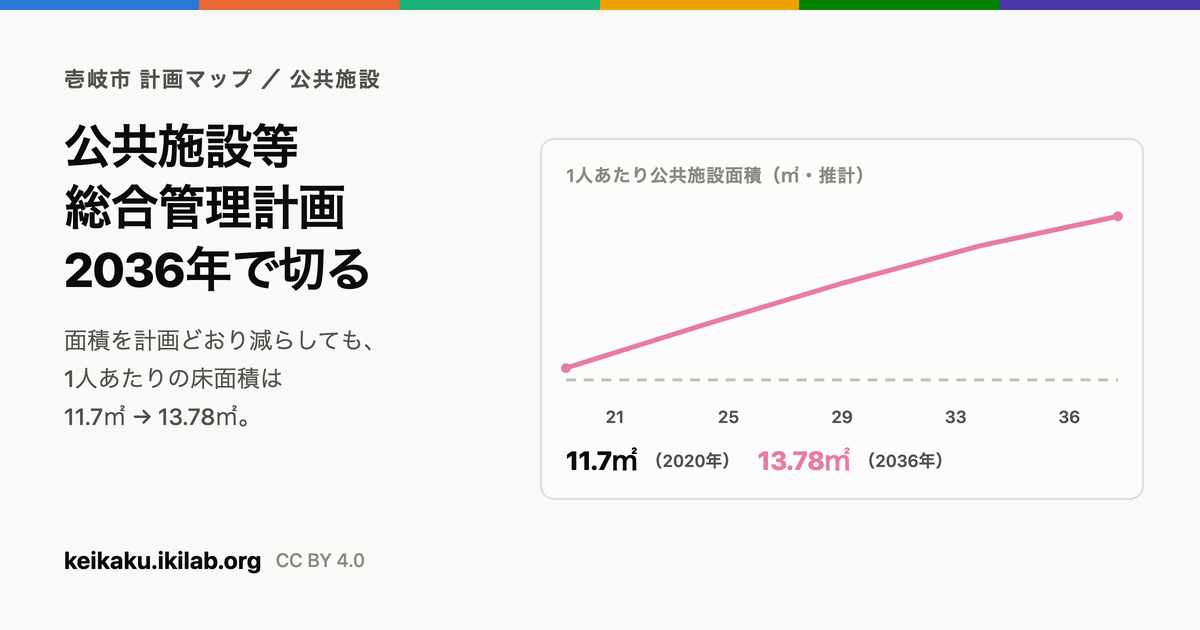
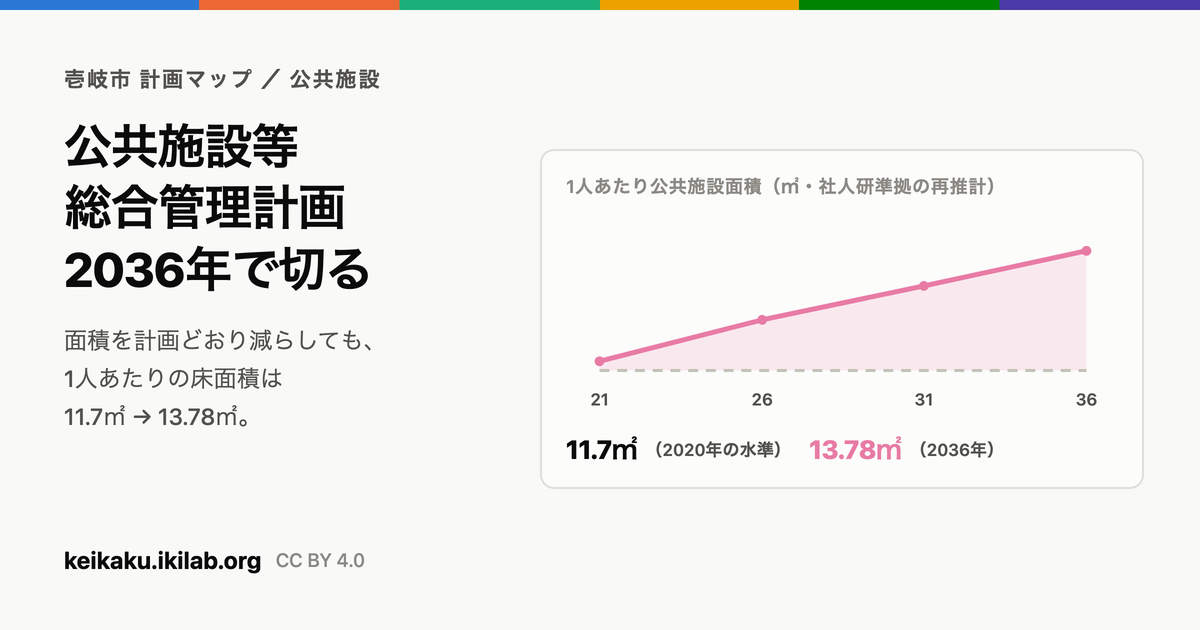
OGPカードの年の目盛りを点に揃え、各点に丸と基準線との差の塗りを入れる

diff --git a/tools/og/cards.html b/tools/og/cards.html
@@ -198,16 +198,19 @@ body{background:#555;padding:24px;display:flex;flex-direction:column;gap:24px;al
   </div>
   <div class="R">
     <div class="mini">
-      <div class="cap">1人あたり公共施設面積（㎡・推計）</div>
-      <svg class="ln" viewBox="0 0 560 200" role="img" aria-label="1人あたり公共施設面積が2020年の11.7平方メートルから2036年の13.78平方メートルへ上昇">
-        <polyline points="0,164 140,120 280,78 420,40 560,10" fill="none" stroke="var(--c5)" stroke-width="5"
+      <div class="cap">1人あたり公共施設面積（㎡・社人研準拠の再推計）</div>
+      <!-- 年の目盛りは SVG の中に置く。外の .yrs（等分セルの中央）に出すと、
+           点の位置（等間隔）とずれる。点が4つだとずれが半セル＝56px になって目立つ。 -->
+      <svg class="ln" viewBox="0 0 560 200" role="img" aria-label="1人あたり公共施設面積が2020年の水準11.7平方メートルに対し、2036年に13.78平方メートルへ上昇">
+        <path d="M34,145.9 L34,145.9 L199,103.9 L363,69.5 L528,33.9 L528,155.3 L34,155.3 Z" fill="var(--c5)" opacity=".14"/>
+        <line x1="34" y1="155.3" x2="528" y2="155.3" stroke="var(--axis)" stroke-width="3" stroke-dasharray="10 8"/>
+        <polyline points="34,145.9 199,103.9 363,69.5 528,33.9" fill="none" stroke="var(--c5)" stroke-width="5"
           stroke-linejoin="round" stroke-linecap="round"/>
-        <line x1="0" y1="176" x2="560" y2="176" stroke="var(--axis)" stroke-width="3" stroke-dasharray="10 8"/>
-        <circle cx="0" cy="164" r="5" fill="var(--c5)"/><circle cx="560" cy="10" r="5" fill="var(--c5)"/>
+        <circle cx="34" cy="145.9" r="5" fill="var(--c5)"/><circle cx="199" cy="103.9" r="5" fill="var(--c5)"/><circle cx="363" cy="69.5" r="5" fill="var(--c5)"/><circle cx="528" cy="33.9" r="5" fill="var(--c5)"/>
+        <g font-size="17" font-weight="600" fill="var(--ink2)"><text x="34" y="191" text-anchor="middle">21</text><text x="199" y="191" text-anchor="middle">26</text><text x="363" y="191" text-anchor="middle">31</text><text x="528" y="191" text-anchor="middle">36</text></g>
       </svg>
-      <div class="yrs"><div>21</div><div>25</div><div>29</div><div>33</div><div>36</div></div>
       <div class="lg">
-        <span><b class="big">11.7㎡</b>（2020年）</span>
+        <span><b class="big">11.7㎡</b>（2020年の水準）</span>
         <span><b class="big" style="color:var(--c5)">13.78㎡</b>（2036年）</span>
       </div>
     </div>

diff --git a/plans/shisetsu-2036/index.html b/plans/shisetsu-2036/index.html
@@ -15,7 +15,7 @@
 <meta property="og:image" content="https://keikaku.ikilab.org/assets/og-shisetsu-2036.png">
 <meta property="og:image:width" content="1200">
 <meta property="og:image:height" content="630">
-<meta property="og:image:alt" content="1人あたり公共施設面積が2020年の11.7平方メートルから2036年の13.78平方メートルへ上昇することを示す折れ線グラフ">
+<meta property="og:image:alt" content="1人あたり公共施設面積が、2020年の水準11.7平方メートルに対し、2036年に13.78平方メートルへ上昇することを示す折れ線グラフ">
 <meta name="twitter:image" content="https://keikaku.ikilab.org/assets/og-shisetsu-2036.png">
 <meta name="twitter:card" content="summary_large_image">
 <link rel="stylesheet" href="../../assets/palette.css">
